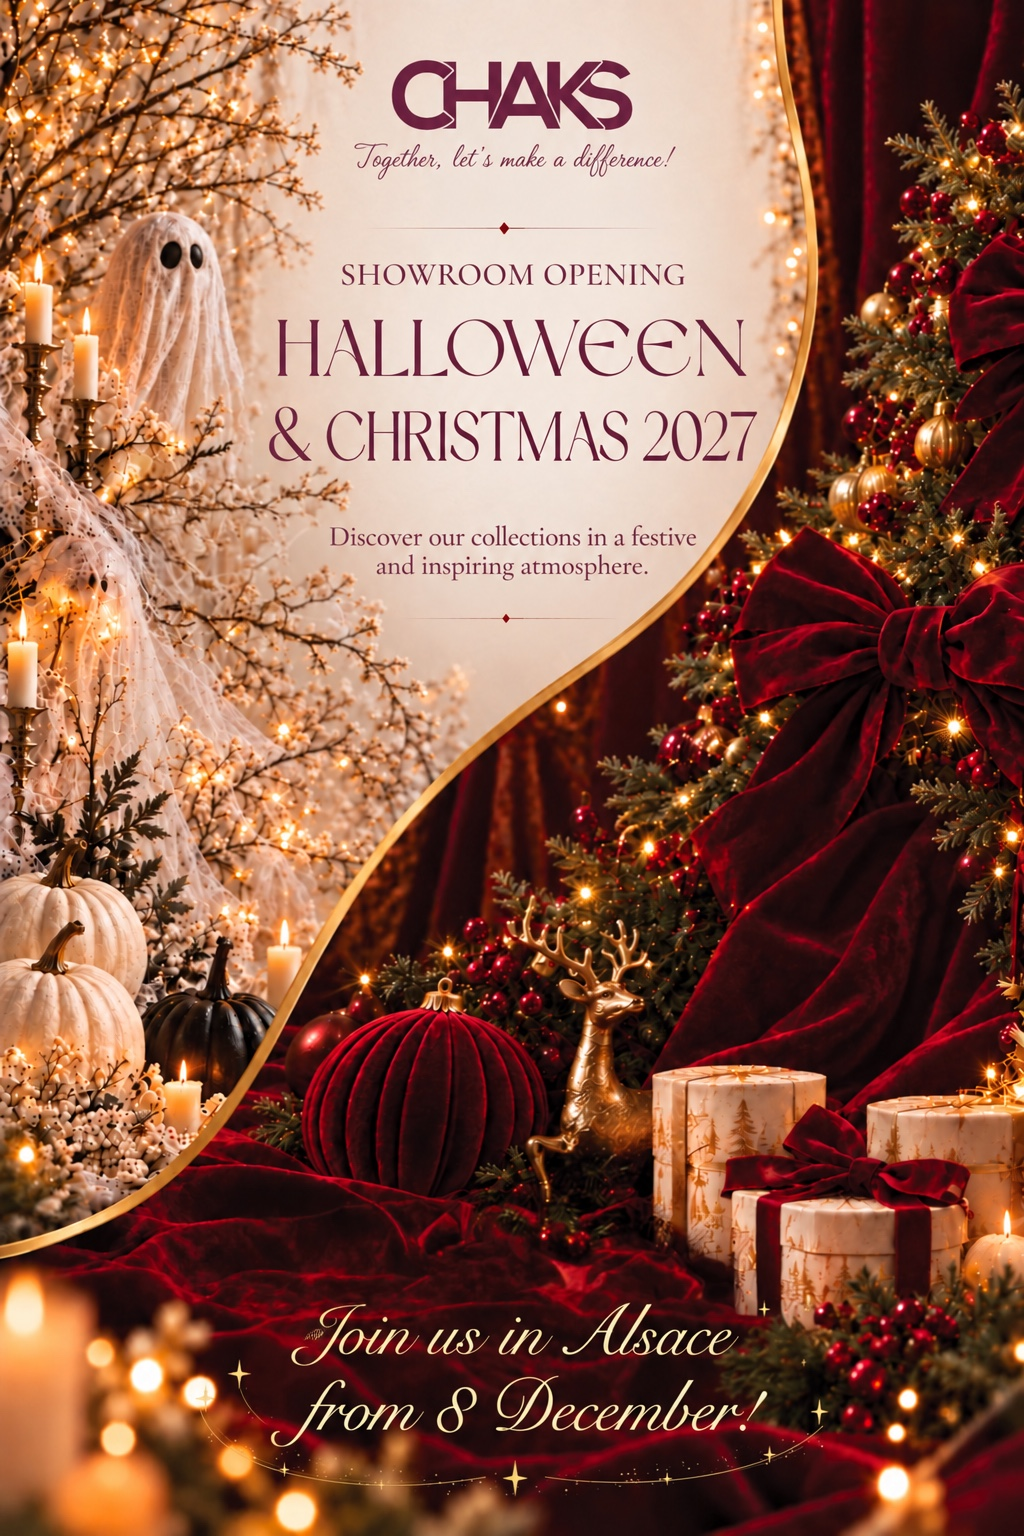
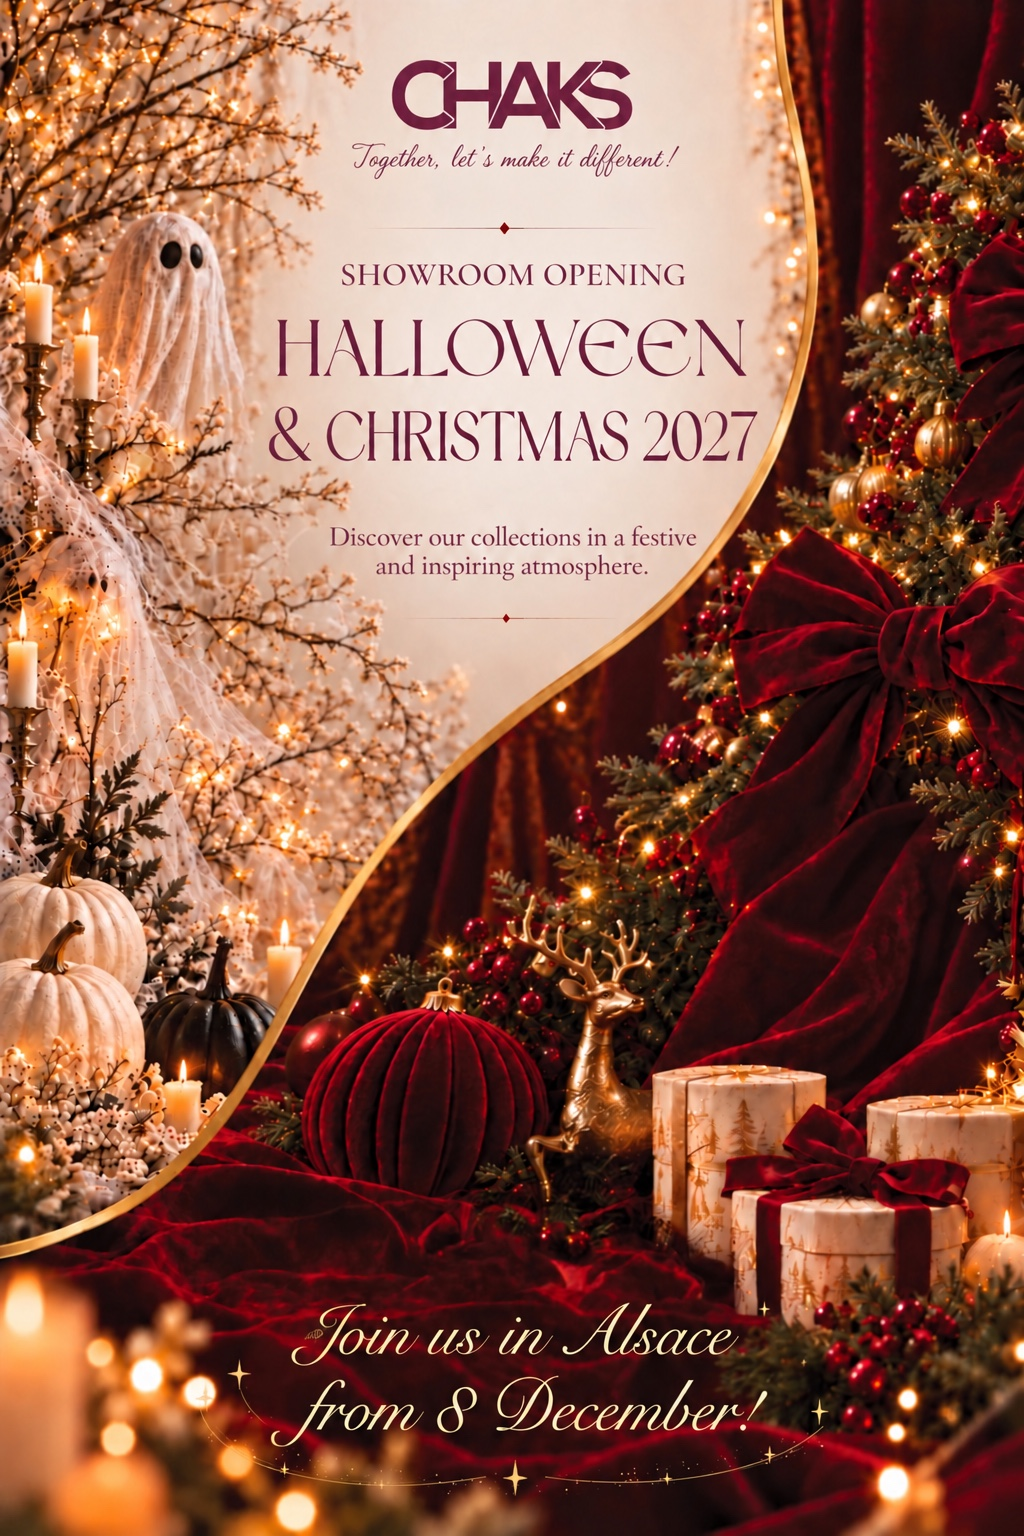
Add files via upload

diff --git a/index.html b/index.html
@@ -1,2 +1,2 @@
 <!doctype html>
-<html lang="fr"><head><meta charset="utf-8"><meta name="viewport" content="width=device-width,initial-scale=1"><meta name="theme-color" content="#491025"><title>Votre invitation showroom · CHAKS</title><meta name="description" content="Halloween & Noël 2027. Rendez-vous en Alsace dès le 8 décembre. Découvrez nos collections au showroom."><meta property="og:title" content="CHAKS · Votre invitation showroom"><meta property="og:description" content="Découvrez nos collections Halloween & Noël 2027 et réservez votre visite."><meta property="og:type" content="website"><link rel="preconnect" href="https://fonts.googleapis.com"><link rel="preconnect" href="https://fonts.gstatic.com" crossorigin><link href="https://fonts.googleapis.com/css2?family=Waterfall&display=swap" rel="stylesheet"><link rel="stylesheet" href="styles.css?v=20261026-multilingual"><script defer src="translations.js?v=20261026"></script><script defer src="languages.js?v=20261026"></script></head><body><header class="language-header"><nav class="language-switch" aria-label="Choisir la langue" data-i18n-aria="languageLabel"><a href="?lang=fr" data-language="fr" lang="fr" hreflang="fr" aria-label="Français" aria-current="true">FR</a><a href="?lang=de" data-language="de" lang="de" hreflang="de" aria-label="Deutsch">DE</a><a href="?lang=it" data-language="it" lang="it" hreflang="it" aria-label="Italiano">IT</a><a href="?lang=en" data-language="en" lang="en" hreflang="en" aria-label="English">EN</a></nav></header><div class="mobile-intro" data-i18n="invitation">VOTRE INVITATION CHAKS</div><main><figure><img id="invitation-poster" src="assets/invitation-fr.jpg" alt="CHAKS — Ouverture du showroom Halloween & Noël 2027. Découvrez nos collections dans une ambiance festive et inspirante. Rendez-vous en Alsace dès le 8 décembre !" width="1067" height="1600"></figure><section><div class="eyebrow" data-i18n="collection">Halloween & Noël 2027</div><div class="ornament"></div><h1><span data-i18n="heading">Votre invitation</span><br><em data-i18n="headingAccent">au showroom.</em></h1><p data-i18n="introduction">Découvrez nos collections Halloween & Noël 2027 dans une ambiance festive et inspirante.</p><p class="date"><span data-i18n="location">Rendez-vous en Alsace</span><br><span data-i18n="date">dès le 8 décembre</span></p><a class="cta cta-booking" href="https://bookings.cloud.microsoft/book/RservezvotrevisiteaushowroomCHAKS20262027@chaks.fr/?ismsaljsauthenabled"><svg class="gift" viewBox="0 0 24 24" fill="none" stroke="currentColor" stroke-width="1.5" aria-hidden="true"><rect x="3" y="5" width="18" height="16" rx="2"/><path d="M16 3v4M8 3v4M3 11h18m-14 4h3m4 0h3"/></svg><span data-i18n="booking">Prendre rendez-vous avec votre commercial</span><span aria-hidden="true">↗</span></a><div class="signature" data-i18n="slogan">Ensemble, faisons la différence !</div><div class="brand-links"><a class="website-link" data-i18n-aria="websiteLabel" href="https://www.chaks.eu/fr/" target="_blank" rel="noopener noreferrer" aria-label="Visiter le site CHAKS (nouvel onglet)">www.chaks.eu <span aria-hidden="true">↗</span></a><nav class="social-links" data-i18n-aria="socialLabel" aria-label="Retrouvez CHAKS sur les réseaux sociaux"><a href="https://www.instagram.com/chaks.eu" target="_blank" rel="noopener noreferrer" aria-label="CHAKS sur Instagram (nouvel onglet)" title="Instagram" data-network="Instagram"><svg viewBox="0 0 24 24" fill="none" stroke="currentColor" stroke-width="1.7" aria-hidden="true"><rect x="3" y="3" width="18" height="18" rx="5"/><circle cx="12" cy="12" r="4"/><circle cx="17.5" cy="6.5" r="1" fill="currentColor" stroke="none"/></svg></a><a href="https://fr.linkedin.com/company/chaks-eu" target="_blank" rel="noopener noreferrer" aria-label="CHAKS sur LinkedIn (nouvel onglet)" title="LinkedIn" data-network="LinkedIn"><svg viewBox="0 0 24 24" fill="currentColor" aria-hidden="true"><path d="M20.45 2H3.55C2.69 2 2 2.68 2 3.52v16.96c0 .84.69 1.52 1.55 1.52h16.9c.86 0 1.55-.68 1.55-1.52V3.52c0-.84-.69-1.52-1.55-1.52ZM7.93 18.75H4.96V9.2h2.97v9.55ZM6.45 7.9a1.72 1.72 0 1 1 0-3.44 1.72 1.72 0 0 1 0 3.44Zm12.3 10.85h-2.97V14.1c0-1.11-.02-2.54-1.55-2.54-1.55 0-1.79 1.21-1.79 2.46v4.73H9.47V9.2h2.85v1.3h.04c.4-.76 1.37-1.56 2.82-1.56 3.01 0 3.57 1.98 3.57 4.55v5.26Z"/></svg></a><a href="https://www.youtube.com/@chaks_eu" target="_blank" rel="noopener noreferrer" aria-label="CHAKS sur YouTube (nouvel onglet)" title="YouTube" data-network="YouTube"><svg viewBox="0 0 24 24" fill="currentColor" aria-hidden="true"><path d="M23 7a3 3 0 0 0-2.1-2.1C19 4.4 12 4.4 12 4.4s-7 0-8.9.5A3 3 0 0 0 1 7a31 31 0 0 0-.5 5 31 31 0 0 0 .5 5 3 3 0 0 0 2.1 2.1c1.9.5 8.9.5 8.9.5s7 0 8.9-.5A3 3 0 0 0 23 17a31 31 0 0 0 .5-5 31 31 0 0 0-.5-5ZM9.7 15.4V8.6l6 3.4-6 3.4Z"/></svg></a></nav></div></section></main><footer data-i18n="footer">CHAKS · Ouverture du showroom</footer></body></html>
+<html lang="fr"><head><meta charset="utf-8"><meta name="viewport" content="width=device-width,initial-scale=1"><meta name="theme-color" content="#491025"><title>Votre invitation showroom · CHAKS</title><meta name="description" content="Halloween & Noël 2027. Rendez-vous en Alsace dès le 8 décembre. Découvrez nos collections au showroom."><meta property="og:title" content="CHAKS · Votre invitation showroom"><meta property="og:description" content="Découvrez nos collections Halloween & Noël 2027 et réservez votre visite."><meta property="og:type" content="website"><link rel="preconnect" href="https://fonts.googleapis.com"><link rel="preconnect" href="https://fonts.gstatic.com" crossorigin><link href="https://fonts.googleapis.com/css2?family=Waterfall&display=swap" rel="stylesheet"><link rel="stylesheet" href="styles.css?v=20261026-multilingual"><script defer src="translations.js?v=20261026-slogan"></script><script defer src="languages.js?v=20261026-slogan"></script></head><body><header class="language-header"><nav class="language-switch" aria-label="Choisir la langue" data-i18n-aria="languageLabel"><a href="?lang=fr" data-language="fr" lang="fr" hreflang="fr" aria-label="Français" aria-current="true">FR</a><a href="?lang=de" data-language="de" lang="de" hreflang="de" aria-label="Deutsch">DE</a><a href="?lang=it" data-language="it" lang="it" hreflang="it" aria-label="Italiano">IT</a><a href="?lang=en" data-language="en" lang="en" hreflang="en" aria-label="English">EN</a></nav></header><div class="mobile-intro" data-i18n="invitation">VOTRE INVITATION CHAKS</div><main><figure><img id="invitation-poster" src="assets/invitation-fr.jpg" alt="CHAKS — Ouverture du showroom Halloween & Noël 2027. Découvrez nos collections dans une ambiance festive et inspirante. Rendez-vous en Alsace dès le 8 décembre !" width="1067" height="1600"></figure><section><div class="eyebrow" data-i18n="collection">Halloween & Noël 2027</div><div class="ornament"></div><h1><span data-i18n="heading">Votre invitation</span><br><em data-i18n="headingAccent">au showroom.</em></h1><p data-i18n="introduction">Découvrez nos collections Halloween & Noël 2027 dans une ambiance festive et inspirante.</p><p class="date"><span data-i18n="location">Rendez-vous en Alsace</span><br><span data-i18n="date">dès le 8 décembre</span></p><a class="cta cta-booking" href="https://bookings.cloud.microsoft/book/RservezvotrevisiteaushowroomCHAKS20262027@chaks.fr/?ismsaljsauthenabled"><svg class="gift" viewBox="0 0 24 24" fill="none" stroke="currentColor" stroke-width="1.5" aria-hidden="true"><rect x="3" y="5" width="18" height="16" rx="2"/><path d="M16 3v4M8 3v4M3 11h18m-14 4h3m4 0h3"/></svg><span data-i18n="booking">Prendre rendez-vous avec votre commercial</span><span aria-hidden="true">↗</span></a><div class="signature" data-i18n="slogan">Ensemble, faisons la différence !</div><div class="brand-links"><a class="website-link" data-i18n-aria="websiteLabel" href="https://www.chaks.eu/fr/" target="_blank" rel="noopener noreferrer" aria-label="Visiter le site CHAKS (nouvel onglet)">www.chaks.eu <span aria-hidden="true">↗</span></a><nav class="social-links" data-i18n-aria="socialLabel" aria-label="Retrouvez CHAKS sur les réseaux sociaux"><a href="https://www.instagram.com/chaks.eu" target="_blank" rel="noopener noreferrer" aria-label="CHAKS sur Instagram (nouvel onglet)" title="Instagram" data-network="Instagram"><svg viewBox="0 0 24 24" fill="none" stroke="currentColor" stroke-width="1.7" aria-hidden="true"><rect x="3" y="3" width="18" height="18" rx="5"/><circle cx="12" cy="12" r="4"/><circle cx="17.5" cy="6.5" r="1" fill="currentColor" stroke="none"/></svg></a><a href="https://fr.linkedin.com/company/chaks-eu" target="_blank" rel="noopener noreferrer" aria-label="CHAKS sur LinkedIn (nouvel onglet)" title="LinkedIn" data-network="LinkedIn"><svg viewBox="0 0 24 24" fill="currentColor" aria-hidden="true"><path d="M20.45 2H3.55C2.69 2 2 2.68 2 3.52v16.96c0 .84.69 1.52 1.55 1.52h16.9c.86 0 1.55-.68 1.55-1.52V3.52c0-.84-.69-1.52-1.55-1.52ZM7.93 18.75H4.96V9.2h2.97v9.55ZM6.45 7.9a1.72 1.72 0 1 1 0-3.44 1.72 1.72 0 0 1 0 3.44Zm12.3 10.85h-2.97V14.1c0-1.11-.02-2.54-1.55-2.54-1.55 0-1.79 1.21-1.79 2.46v4.73H9.47V9.2h2.85v1.3h.04c.4-.76 1.37-1.56 2.82-1.56 3.01 0 3.57 1.98 3.57 4.55v5.26Z"/></svg></a><a href="https://www.youtube.com/@chaks_eu" target="_blank" rel="noopener noreferrer" aria-label="CHAKS sur YouTube (nouvel onglet)" title="YouTube" data-network="YouTube"><svg viewBox="0 0 24 24" fill="currentColor" aria-hidden="true"><path d="M23 7a3 3 0 0 0-2.1-2.1C19 4.4 12 4.4 12 4.4s-7 0-8.9.5A3 3 0 0 0 1 7a31 31 0 0 0-.5 5 31 31 0 0 0 .5 5 3 3 0 0 0 2.1 2.1c1.9.5 8.9.5 8.9.5s7 0 8.9-.5A3 3 0 0 0 23 17a31 31 0 0 0 .5-5 31 31 0 0 0-.5-5ZM9.7 15.4V8.6l6 3.4-6 3.4Z"/></svg></a></nav></div></section></main><footer data-i18n="footer">CHAKS · Ouverture du showroom</footer></body></html>

diff --git a/translations.js b/translations.js
@@ -47,7 +47,7 @@ window.CHAKS_TRANSLATIONS = {
     introduction: 'Discover our Halloween & Christmas 2027 collections in a festive and inspiring atmosphere.',
     location: 'Join us in Alsace', date: 'from 8 December',
     booking: 'Book an appointment with your sales representative',
-    slogan: 'Together, let’s make a difference!', footer: 'CHAKS · Showroom opening',
+    slogan: 'Together, let’s make it different!', footer: 'CHAKS · Showroom opening',
     posterAlt: 'CHAKS — Showroom opening. Halloween & Christmas 2027. Discover our collections in a festive and inspiring atmosphere. Join us in Alsace from 8 December!',
     websiteLabel: 'Visit the CHAKS website (new tab)', socialLabel: 'Follow CHAKS on social media',
     socialLink: 'CHAKS on {network} (new tab)'

diff --git a/languages.js b/languages.js
@@ -32,7 +32,7 @@
       element.setAttribute('aria-label', text.socialLink.replace('{network}', element.dataset.network));
     });
     const poster = document.querySelector('#invitation-poster');
-    const imagePath = `assets/invitation-${code}.jpg`;
+    const imagePath = `assets/invitation-${code}.jpg` + (code === 'en' ? '?v=20261026-slogan' : '');
     if (poster.getAttribute('src') !== imagePath) poster.setAttribute('src', imagePath);
     poster.setAttribute('alt', text.posterAlt);
     document.querySelector('meta[name="description"]').setAttribute('content', text.description);
